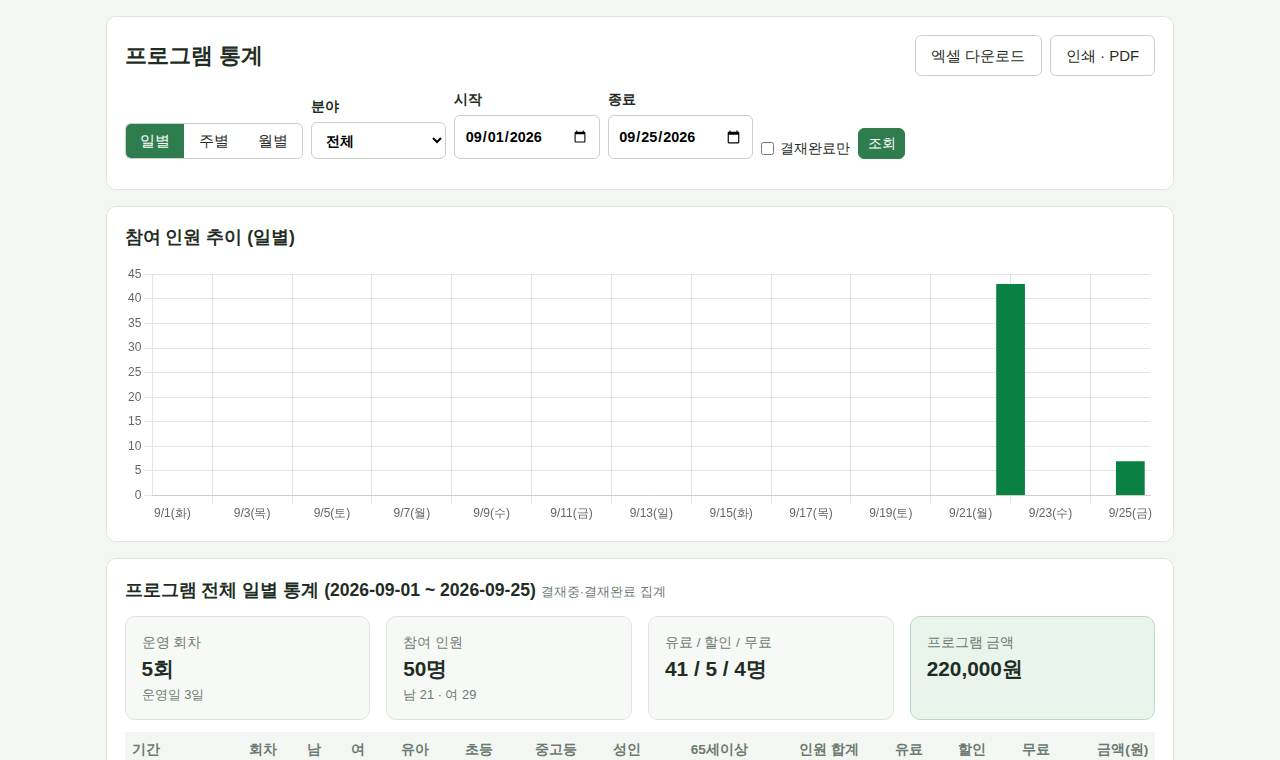
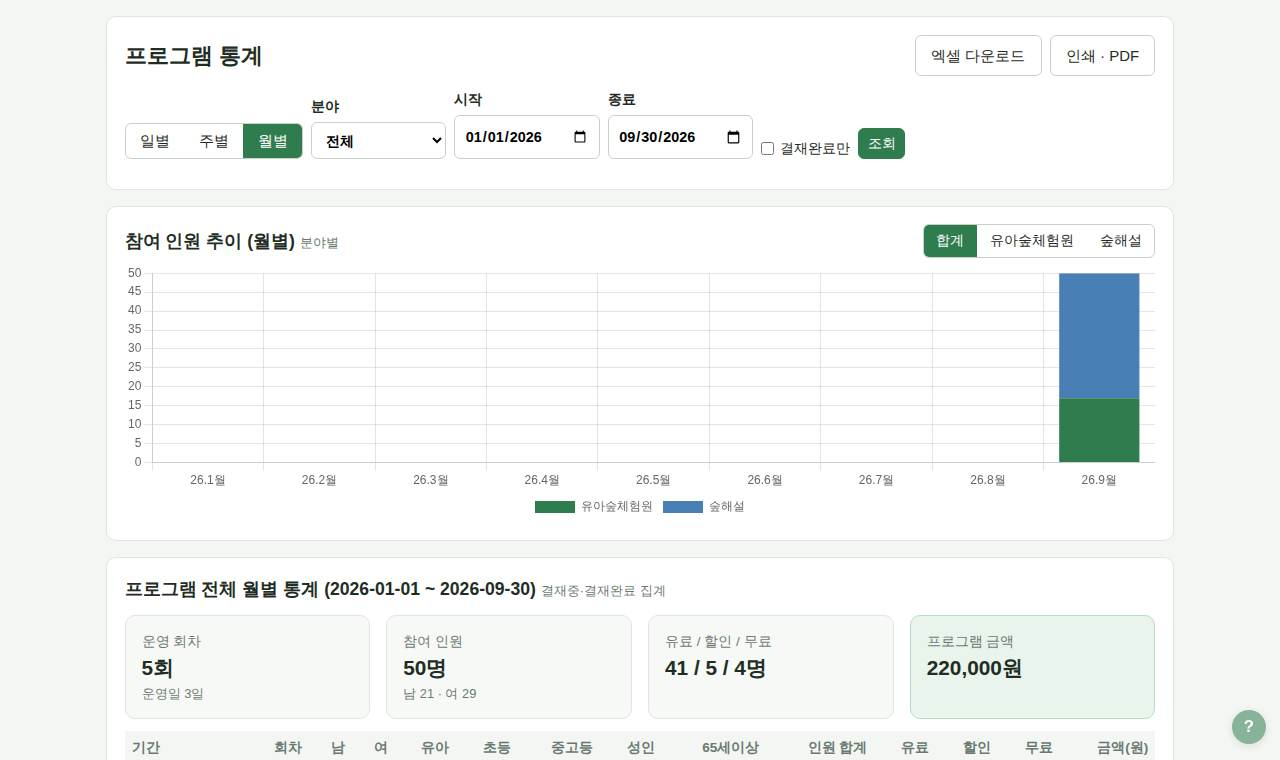
통계 그래프: 객실이용통계 객실 분류별 · 프로그램 통계 분야별 · 민원통계 대분류별로 쌓고 보기 버튼
chart_stack() 공통 헬퍼 (항목별 데이터셋 + 합계·항목 보기 버튼). 도움말·화면 캡처·업데이트·README 반영.

Claude-Session: https://claude.ai/code/session_01Lr6yxKyasrSL9QLfMX5TX8

diff --git a/app/help.php b/app/help.php
@@ -246,6 +246,7 @@ HTML],
             ['id' => 'room_stats', 'title' => '객실이용통계', 'keys' => ['room_stats'], 'img' => ['room_stats.jpg' => '객실이용통계'], 'body' => <<<'HTML'
 <ul>
   <li>판매 객실·입실 인원·객실 매출·<b>가동률</b>·평균 객실단가·RevPAR, 요금구분·할인 판매. 일간·주간·월간·연간.</li>
+  <li><b>판매 객실 추이 그래프</b>: 기둥 하나에 <b>객실 분류</b>(2인실·4인실·독채 등)가 색으로 나뉘어 쌓입니다. 오른쪽 위 <b>합계 · 분류</b> 버튼으로 분류별로 봅니다. 위에서 객실 분류를 고르면 그 분류만 나옵니다.</li>
   <li><b>비교 기간</b>(직전·작년 같은 기간·직접 입력)과의 증감, 객실 분류별·객실별·요일별 가동률. 엑셀·인쇄.</li>
   <li>가동률 = 판매 객실 ÷ (객실 수 × <b>영업일</b>). 영업일은 기간의 날 수에서 <b>휴관일</b>(매주 정기 휴관 요일 + 명절 등)을 뺀 날입니다. 휴관일은 최고관리자가 <b>설정 › 휴관일</b>에서 정합니다.
     일간 표에서 휴관일은 회색으로 '휴관', 요일별 표에서 정기 휴관 요일은 '정기 휴관'으로 나옵니다.</li>
@@ -254,12 +255,14 @@ HTML],
             ['id' => 'cpl_stats', 'title' => '민원통계', 'keys' => ['cpl_stats'], 'img' => ['cpl_stats.jpg' => '민원통계'], 'body' => <<<'HTML'
 <ul>
   <li>월별·연간: 대분류·중분류별 건수(처리상태별), 객실별 불편·불만(2번 이상이면 <b>재발</b>).</li>
-  <li>연간은 1~12월 추이 표와 그래프. 엑셀·인쇄.</li>
+  <li><b>민원 건수 추이 그래프</b>(월별 보기는 일별, 연간은 월별): 기둥 하나에 <b>대분류</b>(단순문의·요청·불편·불만·긴급·안전)가 색으로 나뉘어 쌓이고, <b>합계 · 대분류</b> 버튼으로 따로 봅니다.</li>
+  <li>연간은 1~12월 추이 표. 엑셀·인쇄.</li>
 </ul>
 HTML],
             ['id' => 'prog_stats', 'title' => '프로그램 통계', 'keys' => ['prog_stats'], 'img' => ['prog_stats.jpg' => '프로그램 통계'], 'body' => <<<'HTML'
 <ul>
-  <li>일별·주별·월별, 분야 선택. 회차·남·여·연령대별 인원·유료/할인/무료·금액, 분야별·성별·연령별 표, 그래프. 엑셀·인쇄.</li>
+  <li>일별·주별·월별, 분야 선택. 회차·남·여·연령대별 인원·유료/할인/무료·금액, 분야별·성별·연령별 표. 엑셀·인쇄.</li>
+  <li><b>참여 인원 추이 그래프</b>: 기둥 하나에 <b>분야</b>(산림치유센터·유아숲·숲해설 등)가 색으로 나뉘어 쌓이고, <b>합계 · 분야</b> 버튼으로 따로 봅니다. 분야를 고르면 그 분야만 나옵니다.</li>
 </ul>
 HTML],
         ]],

diff --git a/room_stats.php b/room_stats.php
@@ -296,9 +296,27 @@ layout_header('객실이용통계', 'room_stats');
 // 그래프: 판매 객실 (3개월 이하 일별, 그보다 길면 월별)
 $cg = chart_gran($from, $to);
 $cLabels = chart_buckets($from, $to, $cg);
-$CP = rs_period($from, $to, $cg, $statuses, $roomCount, $roomProducts, (bool) $typeId);
+// 객실 분류별로 기둥을 나눠 쌓고, 분류 보기 버튼 (분류를 골랐으면 그 분류만)
+$st = db()->prepare(
+    "SELECT j.work_date, l.product_id, SUM(l.qty) AS q
+       FROM journals j JOIN sales_lines l ON l.journal_id = j.id
+      WHERE " . SALE_DOC_SQL . " AND l.grp = 'room' AND j.work_date BETWEEN ? AND ?
+        AND j.status IN (" . implode(',', array_fill(0, count($statuses), '?')) . ')
+      GROUP BY j.work_date, l.product_id'
+);
+$st->execute([$from, $to, ...$statuses]);
+$cGroups = [];
+foreach ($typeId ? [$typeId => $types[$typeId]] : $types as $t) $cGroups[$t['name']] = [];
+foreach ($st as $r) {
+    $p = $allRooms[(int) $r['product_id']] ?? null;
+    if ($typeId && (!$p || (int) $p['room_type_id'] !== $typeId)) continue;
+    $g = room_type_name($p ? (int) $p['room_type_id'] : null);
+    $k = chart_key($r['work_date'], $cg);
+    $cGroups[$g][$k] = ($cGroups[$g][$k] ?? 0) + (int) $r['q'];
+}
+[$cSets, $cOpts] = chart_stack($cGroups, array_keys($cLabels));
 stat_chart('roomChart', '판매 객실 추이 (' . ($cg === 'day' ? '일별' : '월별') . ')' . ($typeId ? ' · ' . room_type_name($typeId) : ''), array_values($cLabels),
-    [['label' => '판매 객실', 'data' => array_map(fn($k) => $CP['buckets'][$k]['sold'] ?? 0, array_keys($cLabels)), 'color' => '#4a7fb5']], '실');
+    $cSets, '실', $typeId ? '' : '객실 분류별', $cOpts);
 ?>
 <section class="card">
   <h2><?= e($title) ?> <small class="muted"><?= e($statusLabel) ?></small></h2>

diff --git a/program_stats.php b/program_stats.php
@@ -128,12 +128,15 @@ layout_header('프로그램 통계', 'prog_stats');
 // 그래프: 참여 인원 합계 (3개월 이하 일별, 그보다 길면 월별)
 $cg = chart_gran($from, $to);
 $cB = chart_buckets($from, $to, $cg);
-$cData = array_fill_keys(array_keys($cB), 0);
-$st = $pdo->prepare("SELECT " . ($cg === 'day' ? "DATE_FORMAT(j.work_date, '%Y-%m-%d')" : "DATE_FORMAT(j.work_date, '%Y-%m')") . " AS k, SUM(p.total) AS n
-                       FROM journals j JOIN program_sessions p ON p.journal_id = j.id WHERE $where GROUP BY k");
+// 분야(산림치유센터·유아숲·숲해설 …)별로 기둥을 나눠 쌓고, 분야 보기 버튼
+$cGroups = [];
+foreach ($types as $t) $cGroups[PROGRAM_TYPES[$t]] = [];
+$st = $pdo->prepare("SELECT j.type AS t, " . ($cg === 'day' ? "DATE_FORMAT(j.work_date, '%Y-%m-%d')" : "DATE_FORMAT(j.work_date, '%Y-%m')") . " AS k, SUM(p.total) AS n
+                       FROM journals j JOIN program_sessions p ON p.journal_id = j.id WHERE $where GROUP BY t, k");
 $st->execute($args);
-foreach ($st as $r) if (isset($cData[$r['k']])) $cData[$r['k']] = (int) $r['n'];
-stat_chart('progChart', '참여 인원 추이 (' . ($cg === 'day' ? '일별' : '월별') . ')', array_values($cB), [['label' => '참여 인원', 'data' => array_values($cData), 'color' => '#0b8043']], '명');
+foreach ($st as $r) $cGroups[PROGRAM_TYPES[$r['t']] ?? $r['t']][$r['k']] = (int) $r['n'];
+[$cSets, $cOpts] = chart_stack($cGroups, array_keys($cB));
+stat_chart('progChart', '참여 인원 추이 (' . ($cg === 'day' ? '일별' : '월별') . ')', array_values($cB), $cSets, '명', $prog ? '' : '분야별', $cOpts);
 ?>
 <section class="card">
   <h2><?= e($title) ?> <small class="muted"><?= e($statusLabel) ?> 집계</small></h2>

diff --git a/complaint_stats.php b/complaint_stats.php
@@ -122,16 +122,24 @@ $monthUrl = fn($m) => url(sprintf('complaint_stats.php?ym=%04d-%02d', $y, $m));
 
 <?php
 // 그래프: 민원 건수 (월별 보기는 일별, 연간은 월별)
+// 대분류별로 기둥을 나눠 쌓고, 대분류 보기 버튼
+$cGroups = [];
+foreach ($tree['tree'] as $c1 => $x) $cGroups["$c1. {$x['name']}"] = [];
 if ($unit === 'year') {
-    $cLabels = array_map(fn($m) => "{$m}월", range(1, 12));
-    $cData = array_map(fn($m) => $byM1[$m]['all'] ?? 0, range(1, 12));
+    $cKeys = range(1, 12);
+    $cLabels = array_map(fn($m) => "{$m}월", $cKeys);
 } else {
     $cB = chart_buckets($from, $to, 'day');
-    $cData = array_fill_keys(array_keys($cB), 0);
-    foreach ($rows as $c) $cData[$c['work_date']] = ($cData[$c['work_date']] ?? 0) + (int) $c['qty'];
+    $cKeys = array_keys($cB);
     $cLabels = array_values($cB);
 }
-stat_chart('cplChart', '민원 건수 추이 (' . ($unit === 'year' ? '월별' : '일별') . ')', $cLabels, [['label' => '민원 건수', 'data' => array_values($cData), 'color' => '#c0392b']], '건');
+foreach ($rows as $c) {
+    $g = isset($tree['tree'][$c['cat1']]) ? "{$c['cat1']}. {$tree['tree'][$c['cat1']]['name']}" : cpl_name($c['cat1']);
+    $k = $unit === 'year' ? (int) substr($c['work_date'], 5, 2) : $c['work_date'];
+    $cGroups[$g][$k] = ($cGroups[$g][$k] ?? 0) + (int) $c['qty'];
+}
+[$cSets, $cOpts] = chart_stack($cGroups, $cKeys);
+stat_chart('cplChart', '민원 건수 추이 (' . ($unit === 'year' ? '월별' : '일별') . ')', $cLabels, $cSets, '건', '대분류별', $cOpts);
 ?>
 
 <?php if ($unit === 'year'): ?>

diff --git a/app/changelog.php b/app/changelog.php
@@ -7,6 +7,10 @@ defined('APP_ROOT') || exit;
  *   ['date' => 'YYYY-MM-DD', 'title' => '한 줄 요약', 'items' => ['자세한 내용', ...], 'menu' => '관련 메뉴(선택)']
  */
 const CHANGELOG = [
+    ['date' => '2026-09-30', 'title' => '통계 그래프: 객실 분류별 · 프로그램 분야별 · 민원 대분류별로 쌓기', 'menu' => '통계', 'items' => [
+        '객실이용통계의 판매 객실 추이 그래프 기둥이 객실 분류(2인실·4인실·독채 등)별로 나뉘어 쌓이고, 합계·분류 버튼으로 따로 볼 수 있습니다.',
+        '프로그램 통계의 참여 인원 추이는 분야(산림치유센터·유아숲·숲해설 등)별, 민원통계의 민원 건수 추이는 대분류(단순문의·요청·불편·불만·긴급·안전)별로 같은 방식입니다.',
+    ]],
     ['date' => '2026-09-30', 'title' => '공휴일 전날은 객실 주말 요금', 'menu' => '객실관리', 'items' => [
         "일일객실판매의 요금구분 자동 선택에서 공휴일 전날(예: 어린이날 전날, 설 연휴 전날)도 비수기 주말 요금으로 잡습니다. 공휴일은 일정표에 '공휴일'로 등록된 날입니다.",
         "객실판매 가져오기는 일정표와 함께 엑셀의 '공휴일' 시트(날짜·명칭, 고정 공휴일 MMDD)도 읽어 공휴일 전날을 주말 요금으로 넣고, 미리보기에 해당 날짜를 보여 줍니다.",

diff --git a/app/charts.php b/app/charts.php
@@ -31,6 +31,27 @@ function chart_key(string $date, string $gran): string
     return $gran === 'day' ? substr($date, 0, 10) : substr($date, 0, 7);
 }
 
+const CHART_COLORS = ['#2f7d4f', '#4a7fb5', '#c9a227', '#c0392b', '#8e7cc3', '#e67e22', '#16a085', '#7f8c8d', '#d35d8f', '#5d6d7e'];
+
+/**
+ * 항목별로 한 기둥에 쌓는 그래프 데이터 (+ 합계·항목별 보기 버튼)
+ *   $groups = [항목 이름 => [구간 키 => 값]], $keys = 구간 키 순서
+ *   기간 안에 값이 없는 항목은 뺀다 (모두 0이면 그대로). 항목이 하나면 보기 버튼 없음.
+ * @return array{0: array, 1: array} [$datasets, $opts] — stat_chart() 에 그대로
+ */
+function chart_stack(array $groups, array $keys, array $colors = []): array
+{
+    $nonzero = array_filter($groups, fn($g) => array_sum($g) != 0);
+    if ($nonzero) $groups = $nonzero;
+    $sets = $views = [];
+    $i = 0;
+    foreach ($groups as $name => $g) {
+        $sets[] = ['label' => (string) $name, 'data' => array_map(fn($k) => $g[$k] ?? 0, $keys), 'color' => $colors[$name] ?? CHART_COLORS[$i % count(CHART_COLORS)]];
+        $views[(string) $name] = [$i++];
+    }
+    return [$sets, count($sets) > 1 ? ['stacked' => true, 'views' => ['합계' => range(0, count($sets) - 1)] + $views] : []];
+}
+
 /**
  * 그래프 카드 하나
  * $datasets = [['label' => '합계', 'data' => [..], 'color' => '#2f7d4f', 'type' => 'bar'|'line'], ...]
